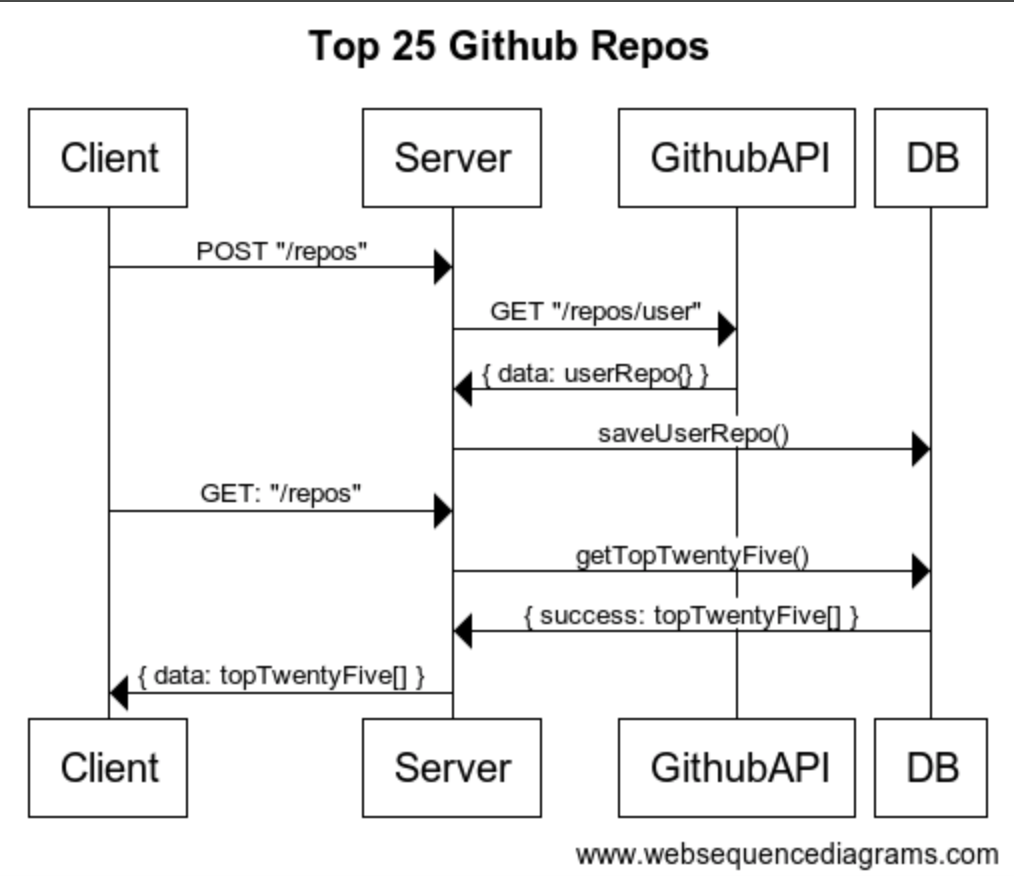
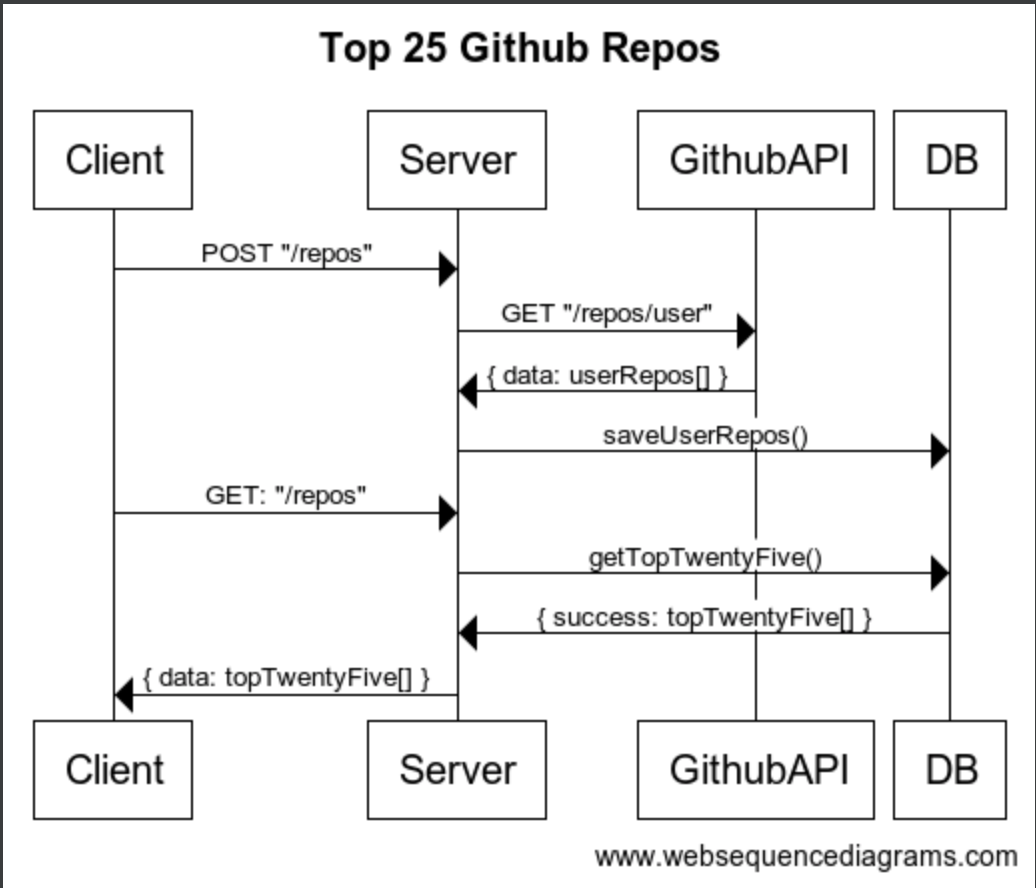
Updated app-diagram

diff --git a/server/index.js b/server/index.js
@@ -18,9 +18,9 @@ app.post('/repos', function (req, res) {
   // and get the repo information from the github API, then
   // save the repo information in the database
   let name = req.body.data;
-  
-  getReposByUsername(name, (res) => {
-    console.log('res = ', res);
+
+  getReposByUsername(name, (userRepos) => {
+    console.log('userRepos = ', userRepos);
   });
 });
 
